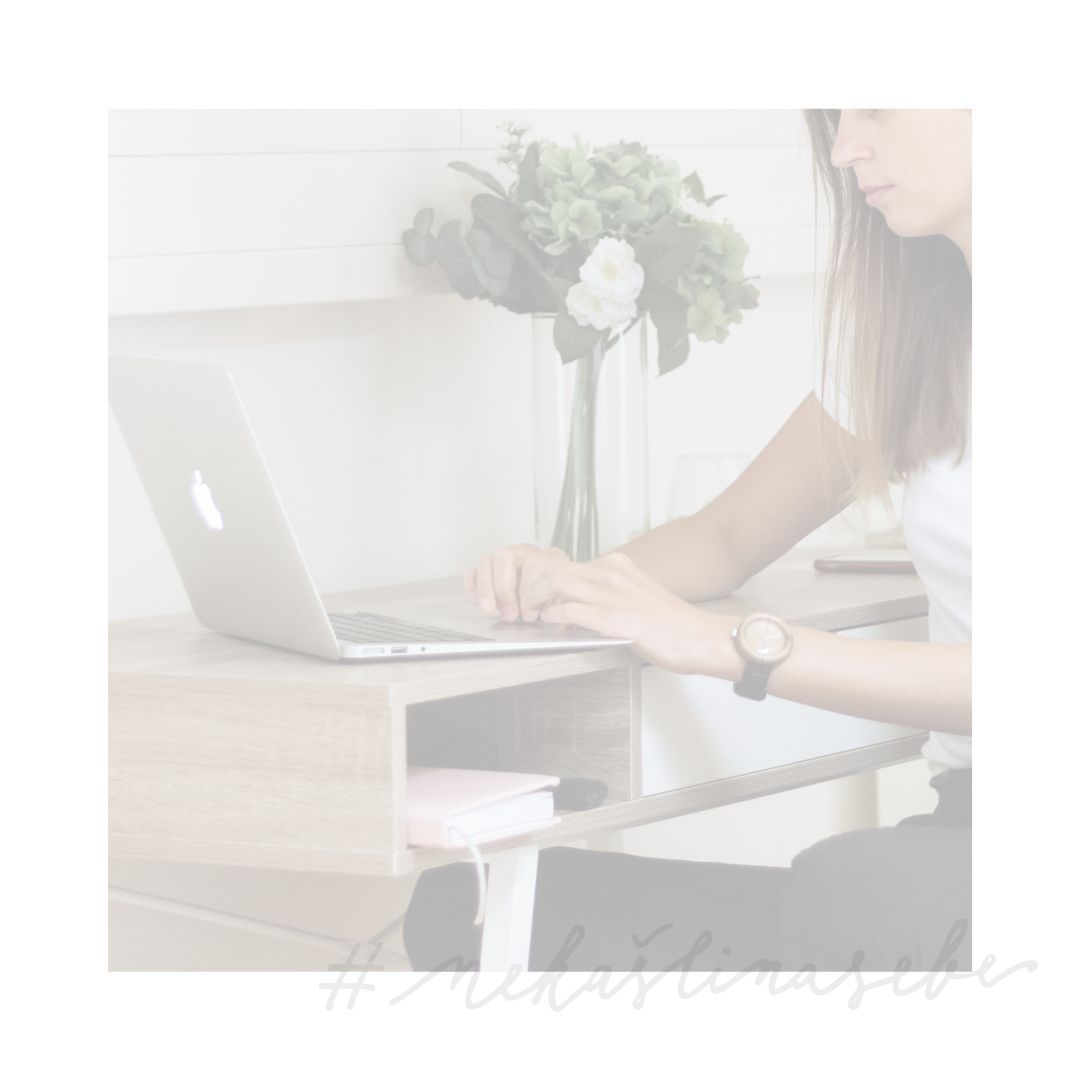
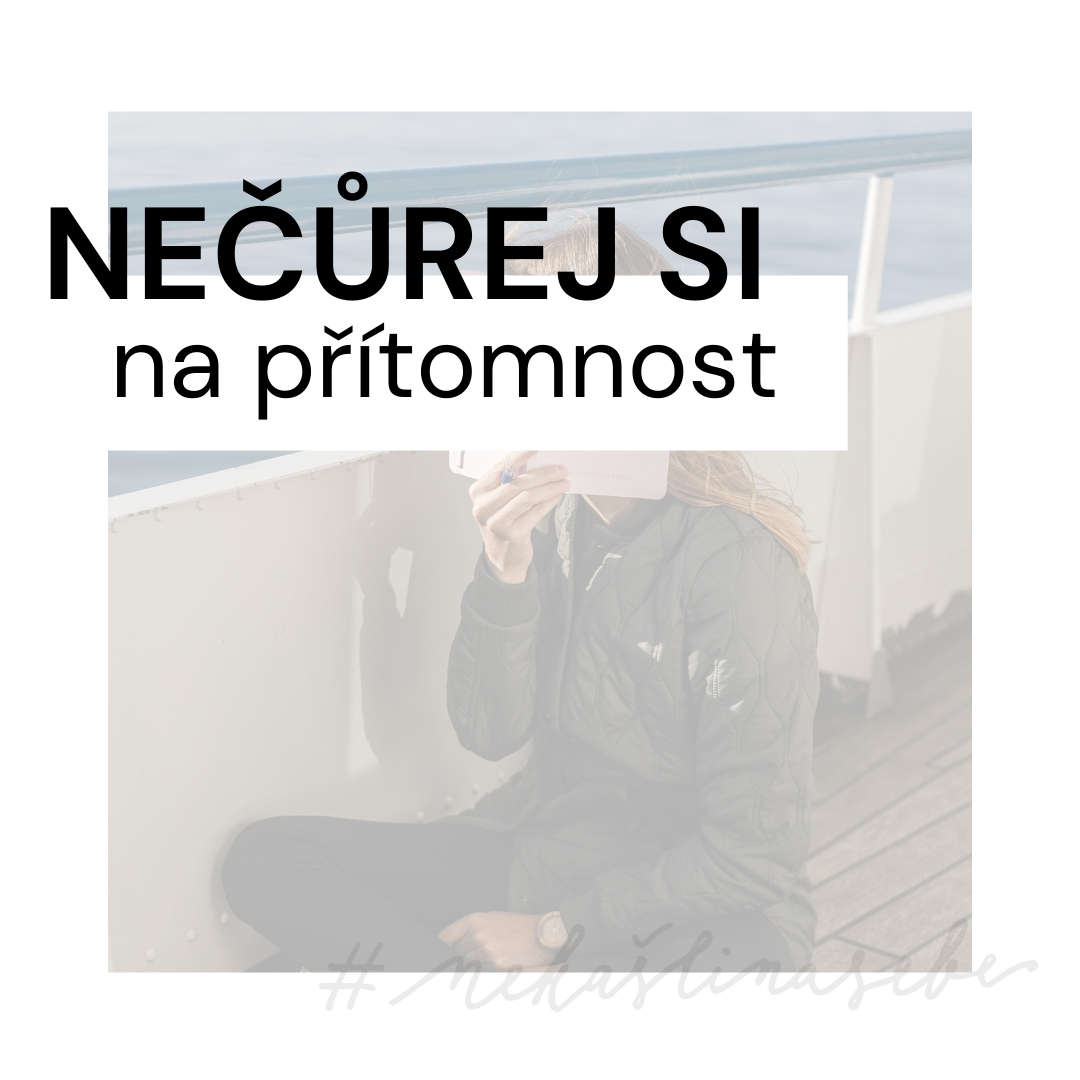
tip3

diff --git a/tips/24-12/tip3.html b/tips/24-12/tip3.html
@@ -79,7 +79,7 @@
         <div class="row mb-8 align-items-center">
           <div class="col-md-8,9" data-aos="fade-up">
             <h2>3.tip #nekaslinasebe</h2>
-            <p>Tip tady ještě není. </p>
+            <p>Dnešní tip nekaslinasebe je velmi <b>rychlý a jednoduchý</b>. Tenhle tip #nekaslinasebe ti pomůže si uvědomit, kde se právě nacházíš ve svých myšlenkách a emocích (budoucnost, minulost) a rychle tě jednoduchým uvědoměním <b>vrátí zpátky do přítomnosti</b>v. Protože jak jsme si řekli u prvního tipu. To, co můžeš změnit, se nachází <b>teď a tady</b>. Tak hurá na tip.  </p>
           </div>
         </div>
       </div>
@@ -88,7 +88,7 @@
         <div class="container">
           <div class="row align-items-stretch">
             <div class="col-md-8" data-aos="fade-up">
-              <img src="/assets/img/_template/img_3_big.jpg" alt="Image" class="img-fluid">
+              <img src="/assets/img/24-12/img_3_big.jpg" alt="Image" class="img-fluid">
             </div>
             <div class="col-md-4 ml-auto mb-5" data-aos="fade-up" data-aos-delay="100">
               <div class="sticky-content">
@@ -96,15 +96,15 @@
                 <p class="mb-4"><span class="text-muted">Pokud máš:</span></p>
 
                 <div class="mb-5">
-                  <p><b>1 minutku</b>:</p>
-                  <p><b>5 minut</b>:</p>
-                  <p><b>15 minut</b>:</p>
+                  <p><b>1 minutku</b>: Zkus si stoupnout a <b>pořádně se rozkroč</b>. Jako kdybys chtěl/a jednu nohu dostat co nejvíce doleva a druhou co nejvíce do pravé strany. Máš? Super. Představ si, že tvoje <b>pravá noha se teď nachází v tvé budoucnosti</b>. Tvoje <b>levá noha zase v tvé minulosti</b>. Koukni se teď <b>pod sebe. Na co si právě teď čůráš? </b> Na svou přítomnost! Někdy až moc overthinkujeme, co se stalo nebo co se stane. Máme depresivní nálady nebo strachy a úzkosti. Až se dneska přistihneš v minulosti nebo v budoucnosti, <b>vzpomeň si, kam si čuráš</b>. </p>
+                  <p><b>5 minut</b>: Následuj minutkový tip. Až se nachytáš, že až moc řešíš, co bude nebo co bylo, zkus se zastavit. Postav se, rozkroč nohy a <b>postupně je vrať k sobě, do přítomnosti.</b> Zeptej se, co pro sebe můžu udělat právě teď? Co mi teď a tady pomůže s tím, co řeším? <b>Co právě teď a tady potřebuji?</b></p>
+                  <p><b>15 minut</b>: Následuj předchozí tipy. Až se přistihneš při overthinkování budoucnosti, zastav se a řekni si (nahlas, pro sebe): <b>Tohle je problém budoucí ______ </b>(u mě třeba BUDOUCÍ TERKY). <b>Nechám to na ní. Ona si s tím poradí.</b> Až si budeš vyčítat a přemítat nad vším, co jsi mohl/a udělat jinak, opět se zastav a uvědom si: <b>Tohle je minulost. Možná na to teď nahlížím už jinak. To neznamená, že se tím musím teď užírat.</b> Pokračuj v tom, co jsi dělal/a.</p>
                 </div>
               </div>
             </div>
           </div>
           <div class="col-md-12 ml-auto mt-3">
-            <p><b>PS:</b></p>
+            <p><b>PS:</b> Užij si <b>“čůrací” tip #nekaslinasebe</b> a vracej se (nejen) dnes do <b>přítomného okamžiku</b>.</p>
           </div>
         </div>
       </div>
